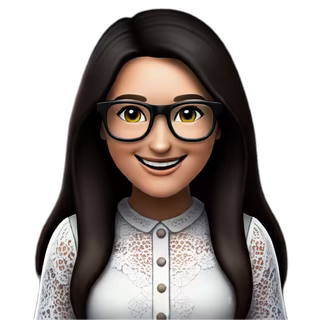
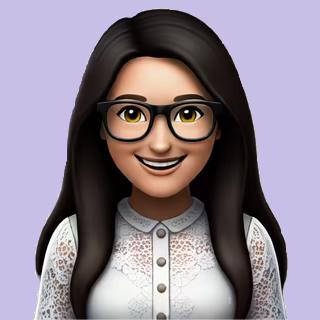
Background for emoji

diff --git a/my-website/src/components/Hero.jsx b/my-website/src/components/Hero.jsx
@@ -35,7 +35,7 @@ function Hero() {
         <img
           src="/LPEmoji.png"
           alt="Profile"
-          className="h-40 w-40 object-cover md:h-64 md:w-64 lg:h-80 lg:w-80"
+          className="rounded-full h-40 w-40 object-cover md:h-64 md:w-64 lg:h-80 lg:w-80"
         />
       </div>
     </section>
